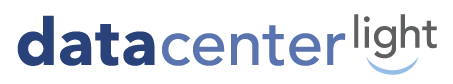
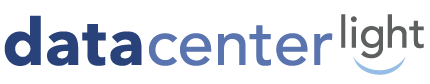
larger image used in email

Changed region(s): [[0.0, 0.1667, 0.5442, 0.7857], [0.5744, 0.1667, 0.9977, 0.9048]]

diff --git a/datacenterlight/templates/datacenterlight/emails/user_activation.html b/datacenterlight/templates/datacenterlight/emails/user_activation.html
@@ -14,7 +14,7 @@
     <table style="width: 100%; border-spacing: 0; border-collapse: collapse; max-width: 560px;">
         <tr>
             <td>
-                <img src="{{ base_url }}{% static 'datacenterlight/img/logo_black.png' %}" style="width: 200px; height: 50px;">
+                <img src="{{ base_url }}{% static 'datacenterlight/img/datacenterlight.png' %}" style="max-width: 200px;">
             </td>
         </tr>
         <tr>

diff --git a/datacenterlight/templates/datacenterlight/emails/welcome_user.html b/datacenterlight/templates/datacenterlight/emails/welcome_user.html
@@ -14,7 +14,7 @@
     <table style="width: 100%; border-spacing: 0; border-collapse: collapse; max-width: 560px;">
         <tr>
             <td>
-                <img src="{{ base_url }}{% static 'datacenterlight/img/logo_black.png' %}" style="width: 200px; height: 50px;">
+                <img src="{{ base_url }}{% static 'datacenterlight/img/datacenterlight.png' %}" style="max-width: 200px;">
             </td>
         </tr>
         <tr>
